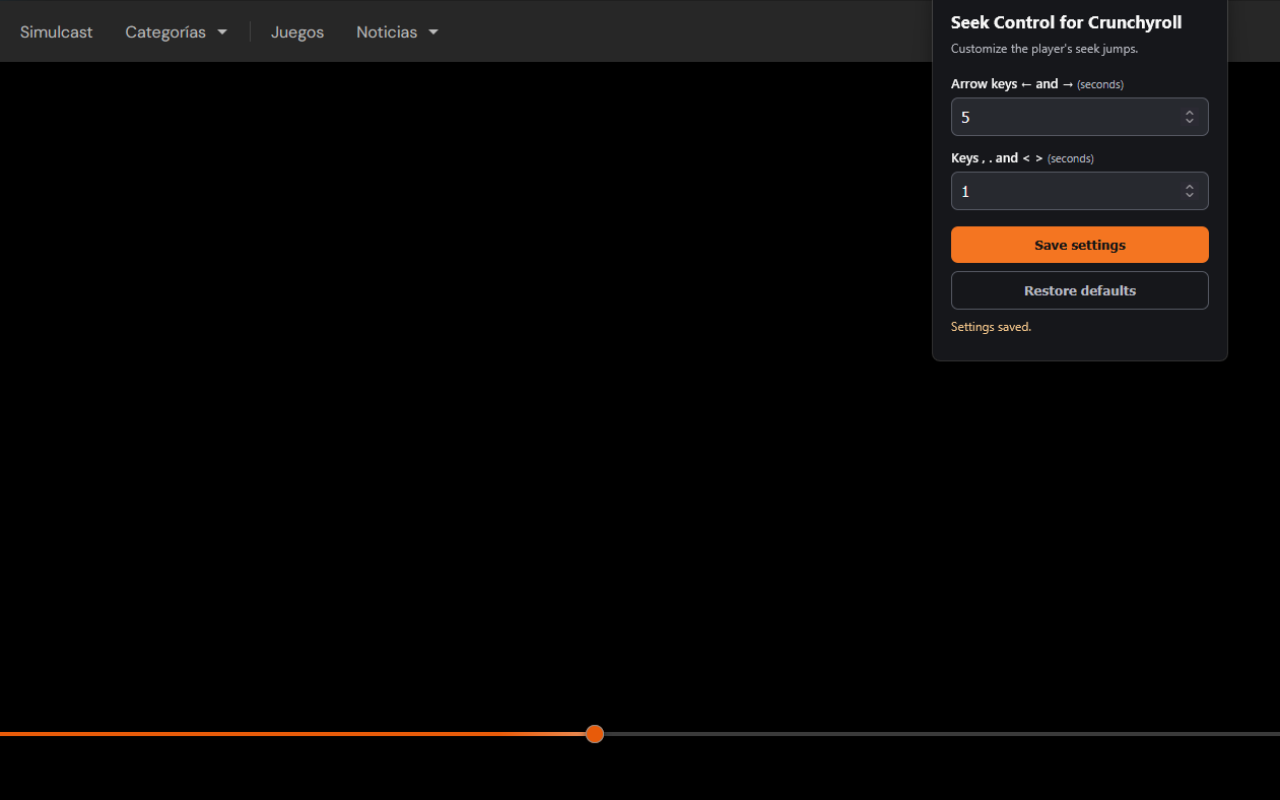
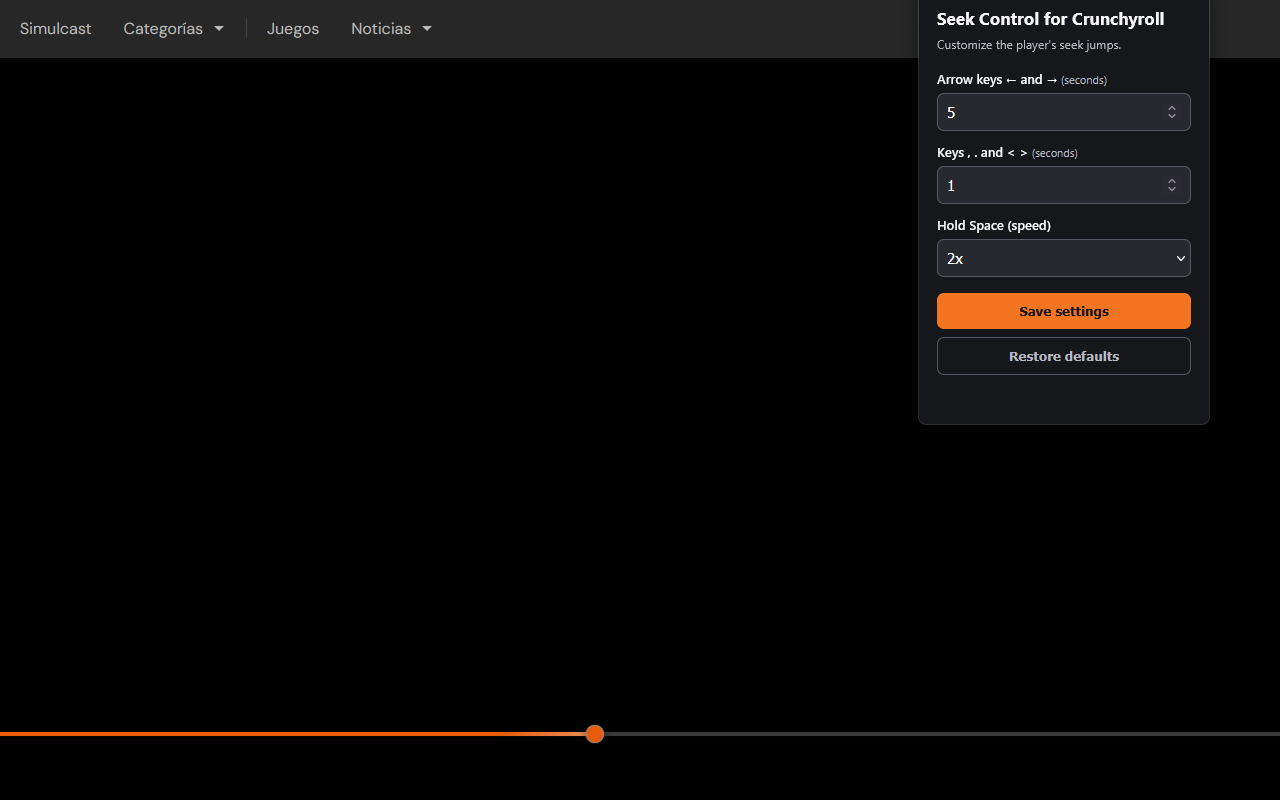
Fix store summary, add AMO link, refresh screenshots
AMO escapes < and > in the summary, so the description now names the
comma and period keys instead. Screenshots show the new hold-Space
speed selector.

Changed region(s): [[0.0, 0.0, 1.0, 0.5312]]

diff --git a/README.md b/README.md
@@ -2,6 +2,8 @@
 
 Manifest V3 browser extension to customize the seek duration on Crunchyroll. Not affiliated with or endorsed by Crunchyroll.
 
+**Install:** [Firefox Add-ons](https://addons.mozilla.org/en-US/firefox/addon/seek-control-for-crunchyroll/)
+
 ![Popup](store-assets/screenshots/store-2-popup-1280x800.png)
 
 ## Features
